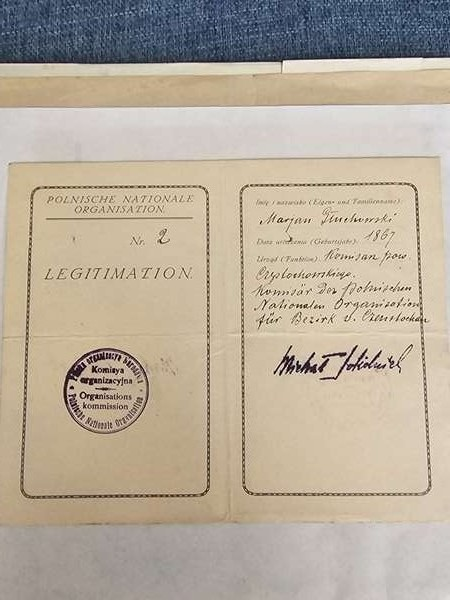
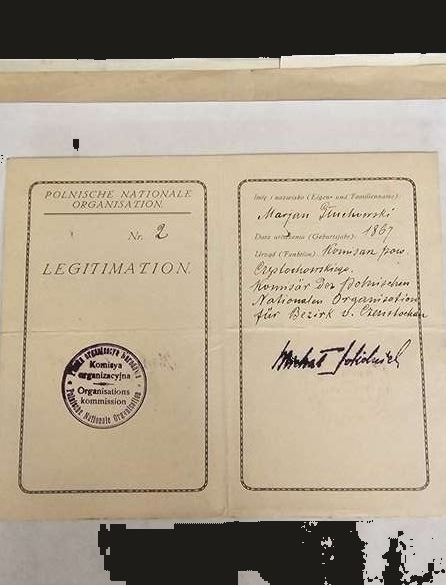
Remove ARG/II/56 phantom postcard, crop ARG/I/1 photo background
- ARG/II/56 (postcard lithograph) removed — object doesn't physically exist,
  only the original pencil drawing ARG/II/59 remains
- ARG/I/1 photo cropped to remove blue sofa background
- Updated cross-references for ARG/II/59

diff --git a/docs/katalog_gluchowski_v4.html b/docs/katalog_gluchowski_v4.html
@@ -443,13 +443,13 @@ function googleTranslateElementInit() {
   <div class="subtitle" data-lang="fr">Documents, correspondance, photographies et éphémérides</div>
   <div class="subtitle" data-lang="yi">דאָקומענטן, קאָרעספּאָנדענץ, פאָטאָגראַפיעס און עפעמעראַ</div>
   <div class="dates">1867 — 2020</div>
-  <div class="stats" data-lang="pl">314 jednostek inwentarzowych &bull; 5 serii archiwalnych &bull; 5 pokoleń</div>
-  <div class="stats" data-lang="en">314 inventory units &bull; 5 archival series &bull; 5 generations</div>
-  <div class="stats" data-lang="pt">314 unidades de inventário &bull; 5 séries arquivísticas &bull; 5 gerações</div>
-  <div class="stats" data-lang="de">314 Inventareinheiten &bull; 5 Archivserien &bull; 5 Generationen</div>
-  <div class="stats" data-lang="nl">314 inventariseenheden &bull; 5 archiefreeksen &bull; 5 generaties</div>
-  <div class="stats" data-lang="fr">314 unités d'inventaire &bull; 5 séries archivistiques &bull; 5 générations</div>
-  <div class="stats" data-lang="yi">314 אינוונטאַר איינהייטן &bull; 5 אַרכיוו סעריעס &bull; 5 דורות</div>
+  <div class="stats" data-lang="pl">313 jednostek inwentarzowych &bull; 5 serii archiwalnych &bull; 5 pokoleń</div>
+  <div class="stats" data-lang="en">313 inventory units &bull; 5 archival series &bull; 5 generations</div>
+  <div class="stats" data-lang="pt">313 unidades de inventário &bull; 5 séries arquivísticas &bull; 5 gerações</div>
+  <div class="stats" data-lang="de">313 Inventareinheiten &bull; 5 Archivserien &bull; 5 Generationen</div>
+  <div class="stats" data-lang="nl">313 inventariseenheden &bull; 5 archiefreeksen &bull; 5 generaties</div>
+  <div class="stats" data-lang="fr">313 unités d'inventaire &bull; 5 séries archivistiques &bull; 5 générations</div>
+  <div class="stats" data-lang="yi">313 אינוונטאַר איינהייטן &bull; 5 אַרכיוו סעריעס &bull; 5 דורות</div>
 </div>
 
 <div class="provenance">
@@ -1391,7 +1391,7 @@ function googleTranslateElementInit() {
 <a href="#academic-articles" class="nav-link" data-nav="articles">Artykuły naukowe</a>
 <a href="#valuation" class="nav-link" style="border-color:#c0392b;color:#c0392b;" data-nav="valuation">Wycena</a>
 <a href="#seria-I" class="nav-link">Seria I (6)</a>
-<a href="#seria-II" class="nav-link">Seria II (68)</a>
+<a href="#seria-II" class="nav-link">Seria II (67)</a>
 <a href="#seria-III" class="nav-link">Seria III (38)</a>
 <a href="#seria-V" class="nav-link">Seria V (173)</a>
 <a href="#seria-VI" class="nav-link">Seria VI (29)</a>
@@ -2697,27 +2697,6 @@ function googleTranslateElementInit() {
         
       </div>
     </div>
-    <div class="card" id="card-ARG-II-56">
-      <div class="card-img-wrap" onclick="openLightbox('gluchowski_img/lbr_V_157_p01.jpg', 'Pocztówka z litografią karykatury por. Głuchowskiego — Henryk Hertz-Barwiński, 1916')">
-        <img src="gluchowski_img/lbr_V_157_p01.jpg" alt="Pocztówka z litografią karykatury por. Głuchowskiego — Henryk Hertz-Barwiński, 1916" loading="lazy">
-      </div>
-      <div class="card-body">
-        <div class="card-sygn">ARG/II/56</div>
-        <h3 class="card-title">Pocztówka z litografią karykatury por. Głuchowskiego — Henryk Hertz-Barwiński, 1916</h3>
-        <div class="card-meta-row">
-          <span class="card-date">1916–1917</span>
-          <span class="card-type">pocztówka</span>
-        </div>
-        <div class="card-field"><span class="field-label" data-label="opis_fiz">Opis fizyczny:</span> Pocztówka ok. 14 × 9 cm, reprodukcja litografii barwnej autorstwa Henryka Hertza-Barwińskiego. Awers: karykatura por. Janusza Głuchowskiego z napisem &#x27;por. Głuchowski&#x27; (u góry) i &#x27;Iwankowicze&#x27; (u dołu — nazwa miejscowości na Wołyniu, NIE podpis artysty). Rewers: odręczny napis ołówkiem &#x27;Z albumu karykatur Illustr. Sztal. Baonów o por. I Bryg. LP&#x27;, pieczęć okrągła z monogramem. 2 zdjęcia (obj6_1.jpg awers, obj6_2.jpg rewers).</div>
-        <div class="card-field"><span class="field-label" data-label="tresc">Treść:</span> Reprodukcja pocztówkowa jednej z 20 litografii z teki &#x27;Woyska polskiego konterfektów gładkich 20&#x27; autorstwa Henryka Hertza-Barwińskiego (1877–1970), aktora i karykaturzysty, oficera I Brygady LP. Teka wydana w Krakowie przez litografa W. Krzepowskiego w 1916–17. Napis &#x27;Iwankowicze&#x27; to nazwa miejscowości na froncie wołyńskim, gdzie rysunek powstał — błędnie odczytywany jako nazwisko &#x27;Iwankiewicz&#x27;. Wśród 20 sportretowanych oficerów: Piłsudski, Śmigły-Rydz, Berbecki, Kukiel, Kaden-Bandrowski i por. Głuchowski.</div>
-        <div class="card-field"><span class="field-label" data-label="tworca">Twórca:</span> Henryk Hertz-Barwiński (1877–1970)</div>
-        <div class="card-field"><span class="field-label" data-label="jezyk">Język:</span> polski</div>
-        <div class="card-field card-context"><span class="field-label" data-label="kontekst">Kontekst:</span> Henryk Hertz-Barwiński — aktor, reżyser teatralny i karykaturzysta, ochotnik I Brygady LP od 1914, odznaczony dwukrotnie Krzyżem Walecznych. Stworzył teczkę 20 karykatur oficerów I Brygady na froncie wołyńskim (Iwankowicze) 1915–16, wydaną jako litografie barwne w Krakowie 1916–17. Kompletne teki pojawiają się na aukcjach Desa Unicum. Oryginały zdigitalizowane w Zielonogórskiej Bibliotece Cyfrowej. Pojedyncza pocztówka z kolekcji — dowód rozpoznawalności Głuchowskiego w elicie legionowej.</div>
-        <div class="card-field"><span class="field-label" data-label="powiazania">Powiązania:</span> <a href="#card-ARG-II-59" class="powiazanie-link" onclick="event.stopPropagation(); scrollToCard('ARG-II-59')">ARG/II/59</a>, <a href="#card-ARG-II-1" class="powiazanie-link" onclick="event.stopPropagation(); scrollToCard('ARG-II-1')">ARG/II/1</a>, <a href="#card-ARG-II-2" class="powiazanie-link" onclick="event.stopPropagation(); scrollToCard('ARG-II-2')">ARG/II/2</a>, <a href="#card-ARG-II-36" class="powiazanie-link" onclick="event.stopPropagation(); scrollToCard('ARG-II-36')">ARG/II/36</a></div>
-        <div class="card-condition"><span class="field-label" data-label="stan">Stan:</span> Dobry</div>
-        
-      </div>
-    </div>
     <div class="card" id="card-ARG-II-57">
       <div class="card-img-wrap" onclick="openLightbox('gluchowski_img/galeria/galeria_p06_img01.jpeg', 'Album fotograficzny — zbiórki wojskowe 1921 i dedykacja dla gen. Głuchowskiego (8.III.1944)')">
         <img src="gluchowski_img/galeria/galeria_p06_img01.jpeg" alt="Album fotograficzny — zbiórki wojskowe 1921 i dedykacja dla gen. Głuchowskiego (8.III.1944)" loading="lazy">
@@ -2776,7 +2755,7 @@ function googleTranslateElementInit() {
         <div class="card-field"><span class="field-label" data-label="tworca">Twórca:</span> Henryk Hertz-Barwiński (1877–1970)</div>
         <div class="card-field"><span class="field-label" data-label="jezyk">Język:</span> n/a</div>
         <div class="card-field card-context"><span class="field-label" data-label="kontekst">Kontekst:</span> UNIKAT. Oryginał rysunku ołówkowego w kolekcji rodzinnej sportretowanego — wyjątkowa wartość, bo teka wydana zawiera jedynie litografie, a oryginalne rysunki przygotowawcze nie były publikowane. Hertz-Barwiński (aktor, reżyser teatralny, dwukrotnie odznaczony KW) rysował współtowarzyszy broni na pozycjach I Brygady LP na Wołyniu. Fakt posiadania oryginału przez rodzinę Głuchowskich sugeruje bezpośredni dar artysty dla portretowanego oficera.</div>
-        <div class="card-field"><span class="field-label" data-label="powiazania">Powiązania:</span> <a href="#card-ARG-II-56" class="powiazanie-link" onclick="event.stopPropagation(); scrollToCard('ARG-II-56')">ARG/II/56</a></div>
+        <div class="card-field"><span class="field-label" data-label="powiazania">Powiązania:</span> <a href="#card-ARG-II-1" class="powiazanie-link" onclick="event.stopPropagation(); scrollToCard('ARG-II-1')">ARG/II/1</a>, <a href="#card-ARG-II-2" class="powiazanie-link" onclick="event.stopPropagation(); scrollToCard('ARG-II-2')">ARG/II/2</a>, <a href="#card-ARG-II-36" class="powiazanie-link" onclick="event.stopPropagation(); scrollToCard('ARG-II-36')">ARG/II/36</a></div>
         <div class="card-condition"><span class="field-label" data-label="stan">Stan:</span> Dobry</div>
         
       </div>
@@ -11276,7 +11255,7 @@ Command Performance from 1945 [...] and American films [...] He excelled in
   </table>
 </div>
 <div class="val-section">
-  <div class="val-section-title">Seria II — Gen. dyw. Janusz Julian Głuchowski (1888–1964) (szacunek: 101,350 — 255,400 PLN)</div>
+  <div class="val-section-title">Seria II — Gen. dyw. Janusz Julian Głuchowski (1888–1964) (szacunek: 100,850 — 253,900 PLN)</div>
   <table class="val-table">
     <thead><tr><th>Sygn.</th><th>Wart.</th><th>Cena (PLN)</th><th>Uzasadnienie</th><th>Rekomendacja</th></tr></thead>
     <tbody><tr>
@@ -11663,13 +11642,6 @@ Command Performance from 1945 [...] and American films [...] He excelled in
   <td class="val-price">200 — 400</td>
   <td class="val-desc">Motocykliści WP w Szkocji 1945. Tematyka motocyklowa + wojskowa. 200-400 PLN.</td>
   <td class="val-rec">Wartość dokumentalna.</td>
-</tr>
-<tr>
-  <td class="val-sygn">ARG/II/56</td>
-  <td class="val-stars">★★★★★</td>
-  <td class="val-price">500 — 1,500</td>
-  <td class="val-desc">Pocztówkowa reprodukcja litografii z teki Hertza-Barwińskiego (1916–17). Kompletna teka 20 litografii: ok. 1300 PLN na aukcjach Desa Unicum. Pojedyncz</td>
-  <td class="val-rec">Hertz-Barwiński — znany karykaturzysta I Brygady. Proweniencja: kolekcja portretowanego oficera. Wysoka wartość dokumentalna + artystyczna.</td>
 </tr>
 <tr>
   <td class="val-sygn">ARG/II/57</td>
@@ -13889,10 +13861,10 @@ document.addEventListener('DOMContentLoaded', function() {
     </select>
     <select id="filter-typ" onchange="filterPhotos()">
         <option value="">Wszystkie typy</option>
-        <option value="aerogram">Aerogram / list lotniczy</option><option value="afisz">Afisz / druk ulotny</option><option value="album">Album fotograficzny</option><option value="album fotograficzny">album fotograficzny</option><option value="album/fotografia">album/fotografia</option><option value="bilet">Bilet / karta członkowska</option><option value="biogram">Biogram / nota biograficzna</option><option value="biogram/maszynopis">biogram/maszynopis</option><option value="certyfikat">Certyfikat / certificate</option><option value="certyfikat/inwentarz">certyfikat/inwentarz</option><option value="dedykacja">dedykacja</option><option value="dedykacja/inskrypcja">dedykacja/inskrypcja</option><option value="dekret">Dekret / akt prawny</option><option value="discharge">Discharge Certificate</option><option value="dokument">dokument</option><option value="dokument jeniecki">dokument jeniecki</option><option value="dokument metrykalny">dokument metrykalny</option><option value="dokument okupacyjny">dokument okupacyjny</option><option value="dokument urzędowy">dokument urzędowy</option><option value="dokument wojskowy">dokument wojskowy</option><option value="druk">Druk okolicznościowy</option><option value="druk okolicznościowy">druk okolicznościowy</option><option value="druk regulaminowy">druk regulaminowy</option><option value="dyplom">Dyplom / akt nadania</option><option value="dyplom + fotografia">dyplom + fotografia</option><option value="esej">Esej szkolny</option><option value="esej szkolny">esej szkolny</option><option value="etykieta archiwalna">etykieta archiwalna</option><option value="etykieta/opis archiwalny">etykieta/opis archiwalny</option><option value="formularz">Formularz urzędowy</option><option value="formularz inspekcyjny">formularz inspekcyjny</option><option value="foto">Fotografia</option><option value="fotografia">fotografia</option><option value="fotografia tablicy">fotografia tablicy</option><option value="fotografia tablicy pamiątkowej">fotografia tablicy pamiątkowej</option><option value="fotografie">fotografie</option><option value="fotokopia">Fotokopia</option><option value="gazeta">Gazeta / czasopismo</option><option value="karta pamiątkowa">karta pamiątkowa</option><option value="karta pułkowa/wizytówka">karta pułkowa/wizytówka</option><option value="karta_id">Karta tożsamości</option><option value="kartka">Kartka pocztowa jeńca (Kriegsgefangenenpost)</option><option value="koperta">Koperta</option><option value="korespondencja">korespondencja</option><option value="korespondencja / dokumenty">korespondencja / dokumenty</option><option value="korespondencja jeniecka">korespondencja jeniecka</option><option value="ksiazeczka">Książeczka wojskowa</option><option value="kwestionariusz">Kwestionariusz osobisty</option><option value="leg">Legitymacja</option><option value="legitymacja">legitymacja</option><option value="list">List / korespondencja</option><option value="lista personalna">lista personalna</option><option value="mapa">Szkic / mapka</option><option value="maszynopis">maszynopis</option><option value="medal">medal</option><option value="militaria">Militaria (galony, wstążki)</option><option value="nekrolog">Nekrolog / klepsydra</option><option value="nominacja">nominacja</option><option value="notatka">Notatka odręczna</option><option value="notatka na formularzu">notatka na formularzu</option><option value="notatka odręczna">notatka odręczna</option><option value="numizmat">Numizmat / bon gettowy</option><option value="odznaczenie (artefakt)">odznaczenie (artefakt)</option><option value="pamietnik">Pamiętnik / notatki wspomnieniowe</option><option value="paszport">paszport</option><option value="pismo">Pismo urzędowe</option><option value="pismo urzędowe">pismo urzędowe</option><option value="pocztówka">pocztówka</option><option value="pokw">Pokwitowanie</option><option value="przepustka">Przepustka</option><option value="rozkaz">Rozkaz wojskowy</option><option value="rysunek">Rysunek odręczny</option><option value="rękopis">rękopis</option><option value="skierowanie">Skierowanie urzędowe</option><option value="swiadectwo">Świadectwo szkolne</option><option value="szkic taktyczny">szkic taktyczny</option><option value="ulotka">Ulotka / druk informacyjny</option><option value="wizytowka">Wizytówka / ephemera</option><option value="wspomnienia">Wspomnienia / rękopis</option><option value="wspomnienie">wspomnienie</option><option value="wycinek">Wycinek prasowy</option><option value="wycinek prasowy">wycinek prasowy</option><option value="zaproszenie">zaproszenie</option><option value="zaswiadczenie">Zaświadczenie</option><option value="zeszyt">Zeszyt szkolny</option>
+        <option value="aerogram">Aerogram / list lotniczy</option><option value="afisz">Afisz / druk ulotny</option><option value="album">Album fotograficzny</option><option value="album fotograficzny">album fotograficzny</option><option value="album/fotografia">album/fotografia</option><option value="bilet">Bilet / karta członkowska</option><option value="biogram">Biogram / nota biograficzna</option><option value="biogram/maszynopis">biogram/maszynopis</option><option value="certyfikat">Certyfikat / certificate</option><option value="certyfikat/inwentarz">certyfikat/inwentarz</option><option value="dedykacja">dedykacja</option><option value="dedykacja/inskrypcja">dedykacja/inskrypcja</option><option value="dekret">Dekret / akt prawny</option><option value="discharge">Discharge Certificate</option><option value="dokument">dokument</option><option value="dokument jeniecki">dokument jeniecki</option><option value="dokument metrykalny">dokument metrykalny</option><option value="dokument okupacyjny">dokument okupacyjny</option><option value="dokument urzędowy">dokument urzędowy</option><option value="dokument wojskowy">dokument wojskowy</option><option value="druk">Druk okolicznościowy</option><option value="druk okolicznościowy">druk okolicznościowy</option><option value="druk regulaminowy">druk regulaminowy</option><option value="dyplom">Dyplom / akt nadania</option><option value="dyplom + fotografia">dyplom + fotografia</option><option value="esej">Esej szkolny</option><option value="esej szkolny">esej szkolny</option><option value="etykieta archiwalna">etykieta archiwalna</option><option value="etykieta/opis archiwalny">etykieta/opis archiwalny</option><option value="formularz">Formularz urzędowy</option><option value="formularz inspekcyjny">formularz inspekcyjny</option><option value="foto">Fotografia</option><option value="fotografia">fotografia</option><option value="fotografia tablicy">fotografia tablicy</option><option value="fotografia tablicy pamiątkowej">fotografia tablicy pamiątkowej</option><option value="fotografie">fotografie</option><option value="fotokopia">Fotokopia</option><option value="gazeta">Gazeta / czasopismo</option><option value="karta pamiątkowa">karta pamiątkowa</option><option value="karta pułkowa/wizytówka">karta pułkowa/wizytówka</option><option value="karta_id">Karta tożsamości</option><option value="kartka">Kartka pocztowa jeńca (Kriegsgefangenenpost)</option><option value="koperta">Koperta</option><option value="korespondencja">korespondencja</option><option value="korespondencja / dokumenty">korespondencja / dokumenty</option><option value="korespondencja jeniecka">korespondencja jeniecka</option><option value="ksiazeczka">Książeczka wojskowa</option><option value="kwestionariusz">Kwestionariusz osobisty</option><option value="leg">Legitymacja</option><option value="legitymacja">legitymacja</option><option value="list">List / korespondencja</option><option value="lista personalna">lista personalna</option><option value="mapa">Szkic / mapka</option><option value="maszynopis">maszynopis</option><option value="medal">medal</option><option value="militaria">Militaria (galony, wstążki)</option><option value="nekrolog">Nekrolog / klepsydra</option><option value="nominacja">nominacja</option><option value="notatka">Notatka odręczna</option><option value="notatka na formularzu">notatka na formularzu</option><option value="notatka odręczna">notatka odręczna</option><option value="numizmat">Numizmat / bon gettowy</option><option value="odznaczenie (artefakt)">odznaczenie (artefakt)</option><option value="pamietnik">Pamiętnik / notatki wspomnieniowe</option><option value="paszport">paszport</option><option value="pismo">Pismo urzędowe</option><option value="pismo urzędowe">pismo urzędowe</option><option value="pokw">Pokwitowanie</option><option value="przepustka">Przepustka</option><option value="rozkaz">Rozkaz wojskowy</option><option value="rysunek">Rysunek odręczny</option><option value="rękopis">rękopis</option><option value="skierowanie">Skierowanie urzędowe</option><option value="swiadectwo">Świadectwo szkolne</option><option value="szkic taktyczny">szkic taktyczny</option><option value="ulotka">Ulotka / druk informacyjny</option><option value="wizytowka">Wizytówka / ephemera</option><option value="wspomnienia">Wspomnienia / rękopis</option><option value="wspomnienie">wspomnienie</option><option value="wycinek">Wycinek prasowy</option><option value="wycinek prasowy">wycinek prasowy</option><option value="zaproszenie">zaproszenie</option><option value="zaswiadczenie">Zaświadczenie</option><option value="zeszyt">Zeszyt szkolny</option>
     </select>
     <input type="text" id="filter-search" placeholder="Szukaj (sygnatura, tytul)..." oninput="filterPhotos()">
-    <div class="photo-count" id="photo-count">314 fotografii</div>
+    <div class="photo-count" id="photo-count">313 fotografii</div>
 </div>
 <div class="photo-grid" id="photo-grid">
     <div class="photo-card" data-seria="I" data-typ="leg" data-search="arg/i/1 legitymacja polskiej organizacji narodowej nr 2" onclick="openLightbox('gluchowski_img/Kolekcja_Gluchowski_Katalog_Tematyczny_p02_img01.jpeg', 'Legitymacja Polskiej Organizacji Narodowej nr 2')">
@@ -15566,13 +15538,6 @@ document.addEventListener('DOMContentLoaded', function() {
         <div class="card-info">
             <div class="card-sygn">ARG/II/55</div>
             <div class="card-title">Fotografia — Święto Łączności, obóz pod Kinross (Szkocja), 1</div>
-        </div>
-    </div>
-<div class="photo-card" data-seria="II" data-typ="pocztówka" data-search="arg/ii/56 pocztówka z litografią karykatury por. głuchowskiego — henry" onclick="openLightbox('gluchowski_img/lbr_V_157_p01.jpg', 'Pocztówka z litografią karykatury por. Głuchowskiego — Henryk Hertz-Barwiński, 1916')">
-        <img src="gluchowski_img/lbr_V_157_p01.jpg" alt="ARG/II/56" loading="lazy">
-        <div class="card-info">
-            <div class="card-sygn">ARG/II/56</div>
-            <div class="card-title">Pocztówka z litografią karykatury por. Głuchowskiego — Henry</div>
         </div>
     </div>
 <div class="photo-card" data-seria="V" data-typ="paszport" data-search="arg/v/157 zestaw dwóch paszportów brytyjskich krzysztofa andrzeja głuc" onclick="openLightbox('gluchowski_img/lbr_V_158_p01.jpg', 'Zestaw dwóch paszportów brytyjskich Krzysztofa Andrzeja Głuchowskiego')">

diff --git a/katalog_gluchowski_v4.py b/katalog_gluchowski_v4.py
@@ -3868,21 +3868,7 @@ OBJECTS = [
 
     # --- Seria V: Krzysztof Andrzej "Juraś" Głuchowski ---
 
-    {
-        "sygn": "ARG/II/56",
-        "photo": "lbr_V_157_p01.jpg",
-        "tytul": "Pocztówka z litografią karykatury por. Głuchowskiego — Henryk Hertz-Barwiński, 1916",
-        "data": "1916–1917",
-        "typ": "pocztówka",
-        "opis_fizyczny": "Pocztówka ok. 14 × 9 cm, reprodukcja litografii barwnej autorstwa Henryka Hertza-Barwińskiego. Awers: karykatura por. Janusza Głuchowskiego z napisem 'por. Głuchowski' (u góry) i 'Iwankowicze' (u dołu — nazwa miejscowości na Wołyniu, NIE podpis artysty). Rewers: odręczny napis ołówkiem 'Z albumu karykatur Illustr. Sztal. Baonów o por. I Bryg. LP', pieczęć okrągła z monogramem. 2 zdjęcia (obj6_1.jpg awers, obj6_2.jpg rewers).",
-        "opis_tresci": "Reprodukcja pocztówkowa jednej z 20 litografii z teki 'Woyska polskiego konterfektów gładkich 20' autorstwa Henryka Hertza-Barwińskiego (1877–1970), aktora i karykaturzysty, oficera I Brygady LP. Teka wydana w Krakowie przez litografa W. Krzepowskiego w 1916–17. Napis 'Iwankowicze' to nazwa miejscowości na froncie wołyńskim, gdzie rysunek powstał — błędnie odczytywany jako nazwisko 'Iwankiewicz'. Wśród 20 sportretowanych oficerów: Piłsudski, Śmigły-Rydz, Berbecki, Kukiel, Kaden-Bandrowski i por. Głuchowski.",
-        "seria": "II",
-        "tworca": "Henryk Hertz-Barwiński (1877–1970)",
-        "jezyk": "polski",
-        "kontekst": "Henryk Hertz-Barwiński — aktor, reżyser teatralny i karykaturzysta, ochotnik I Brygady LP od 1914, odznaczony dwukrotnie Krzyżem Walecznych. Stworzył teczkę 20 karykatur oficerów I Brygady na froncie wołyńskim (Iwankowicze) 1915–16, wydaną jako litografie barwne w Krakowie 1916–17. Kompletne teki pojawiają się na aukcjach Desa Unicum. Oryginały zdigitalizowane w Zielonogórskiej Bibliotece Cyfrowej. Pojedyncza pocztówka z kolekcji — dowód rozpoznawalności Głuchowskiego w elicie legionowej.",
-        "powiazania": ["ARG/II/59", "ARG/II/1", "ARG/II/2", "ARG/II/36"],
-        "stan": "Dobry"
-    },
+    # ARG/II/56 usunięty — pocztówka nie istnieje fizycznie, jedyny obiekt to oryginał rysunku ARG/II/59
     {
         "sygn": "ARG/V/157",
         "photo": "lbr_V_158_p01.jpg",
@@ -4106,7 +4092,7 @@ OBJECTS = [
         "tworca": "Henryk Hertz-Barwiński (1877–1970)",
         "jezyk": "n/a",
         "kontekst": "UNIKAT. Oryginał rysunku ołówkowego w kolekcji rodzinnej sportretowanego — wyjątkowa wartość, bo teka wydana zawiera jedynie litografie, a oryginalne rysunki przygotowawcze nie były publikowane. Hertz-Barwiński (aktor, reżyser teatralny, dwukrotnie odznaczony KW) rysował współtowarzyszy broni na pozycjach I Brygady LP na Wołyniu. Fakt posiadania oryginału przez rodzinę Głuchowskich sugeruje bezpośredni dar artysty dla portretowanego oficera.",
-        "powiazania": ["ARG/II/56"],
+        "powiazania": ["ARG/II/1", "ARG/II/2", "ARG/II/36"],
         "stan": "Dobry"
     },
     {
